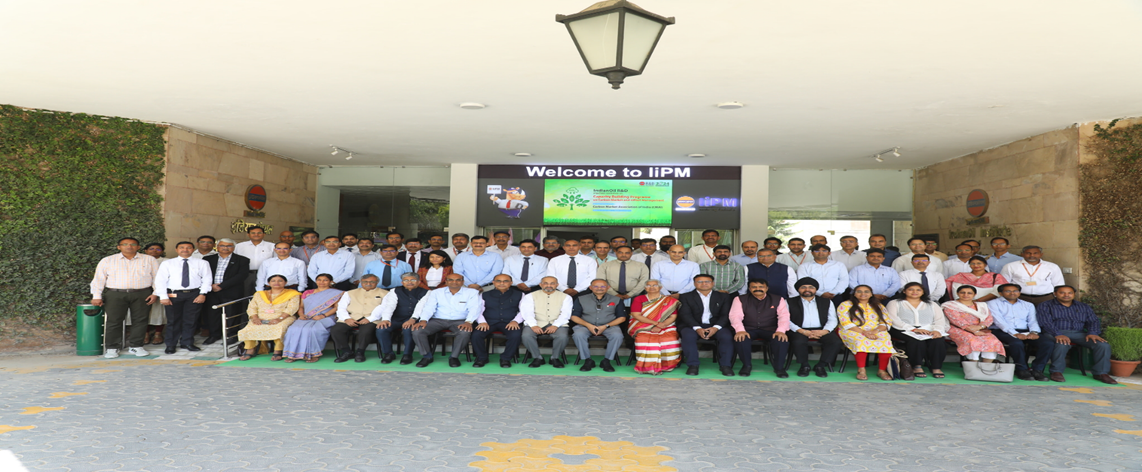
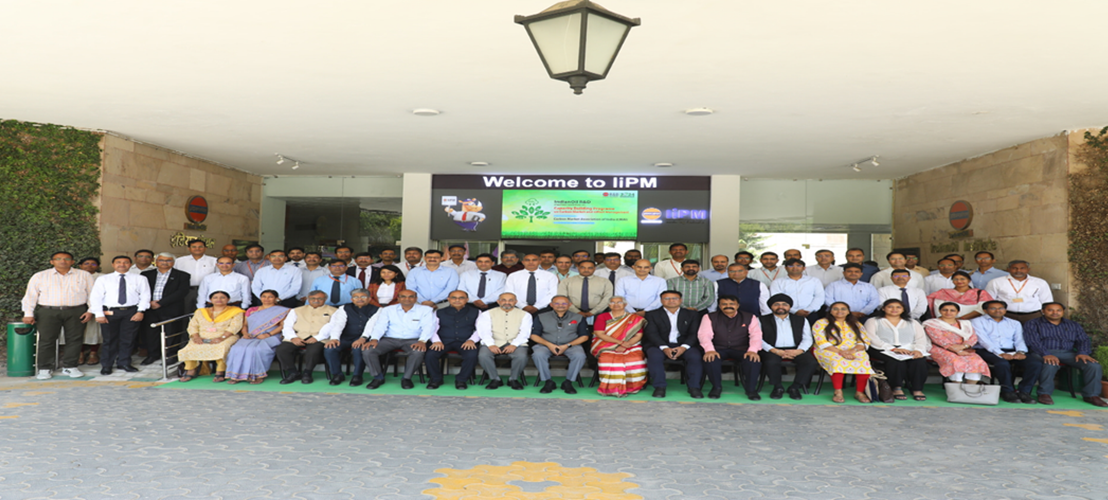
change the image size

diff --git a/src/components/home/HomeHightlights.svelte b/src/components/home/HomeHightlights.svelte
@@ -115,7 +115,7 @@
 				</div>
 			</div>
 
-			<div class="keen-slider__slide relative w-full">
+			<!-- <div class="keen-slider__slide relative w-full">
 				<div class="group relative overflow-hidden">
 					<img alt="" src="/images/lighc.jpg" class=" inset-0 h-[500px] w-[100%] w-full " />
 					<div
@@ -128,7 +128,7 @@
 						</div>
 					</div>
 				</div>
-			</div>
+			</div> -->
 
 			<div class="keen-slider__slide relative w-full">
 				<div class="group relative overflow-hidden">
@@ -178,7 +178,7 @@
 					</div>
 				</div>
 			</div>
-			<div class="keen-slider__slide relative w-full">
+			<!-- <div class="keen-slider__slide relative w-full">
 				<div class="group relative overflow-hidden">
 					<img alt="" src="/images/lighg.JPG" class=" inset-0 h-[500px] w-[100%] w-full object-cover" />
 					<div
@@ -193,7 +193,7 @@
 						</div>
 					</div>
 				</div>
-			</div>
+			</div> -->
 
 			<div class="keen-slider__slide relative w-full">
 				<div class="group relative overflow-hidden">
@@ -216,7 +216,7 @@
 
 			<div class="keen-slider__slide relative w-full">
 				<div class="group relative overflow-hidden">
-					<img alt="" src="/images/lighi.png" class=" inset-0 h-[500px] w-[100%] w-full object-cover" />
+					<img alt="" src="/images/lighi.png" class=" inset-0 h-[500px] w-[100%] w-full " />
 					<div
 						class="bg-opacity-0 absolute inset-0 top-[84%] flex h-[80px] items-center  bg-dblue p-5 opacity-0 transition-opacity duration-300 group-hover:opacity-100"
 					>
